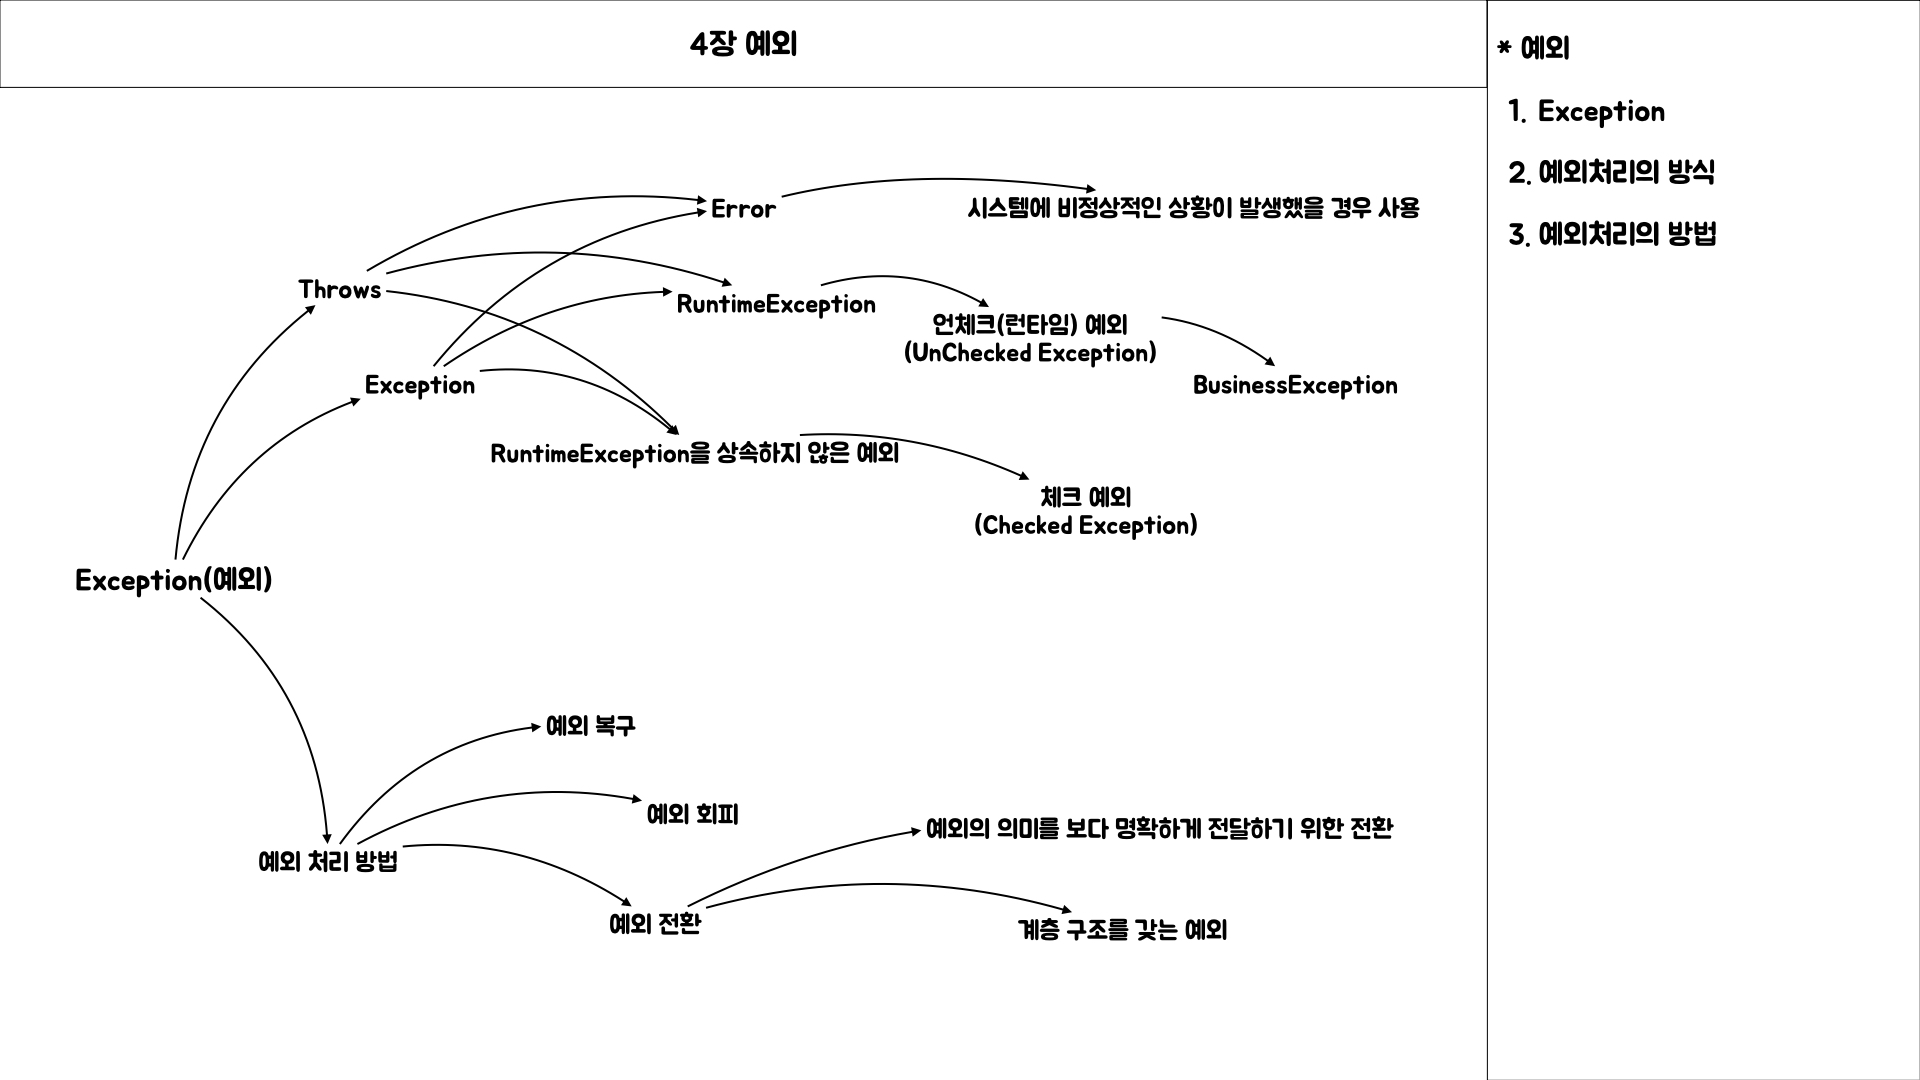
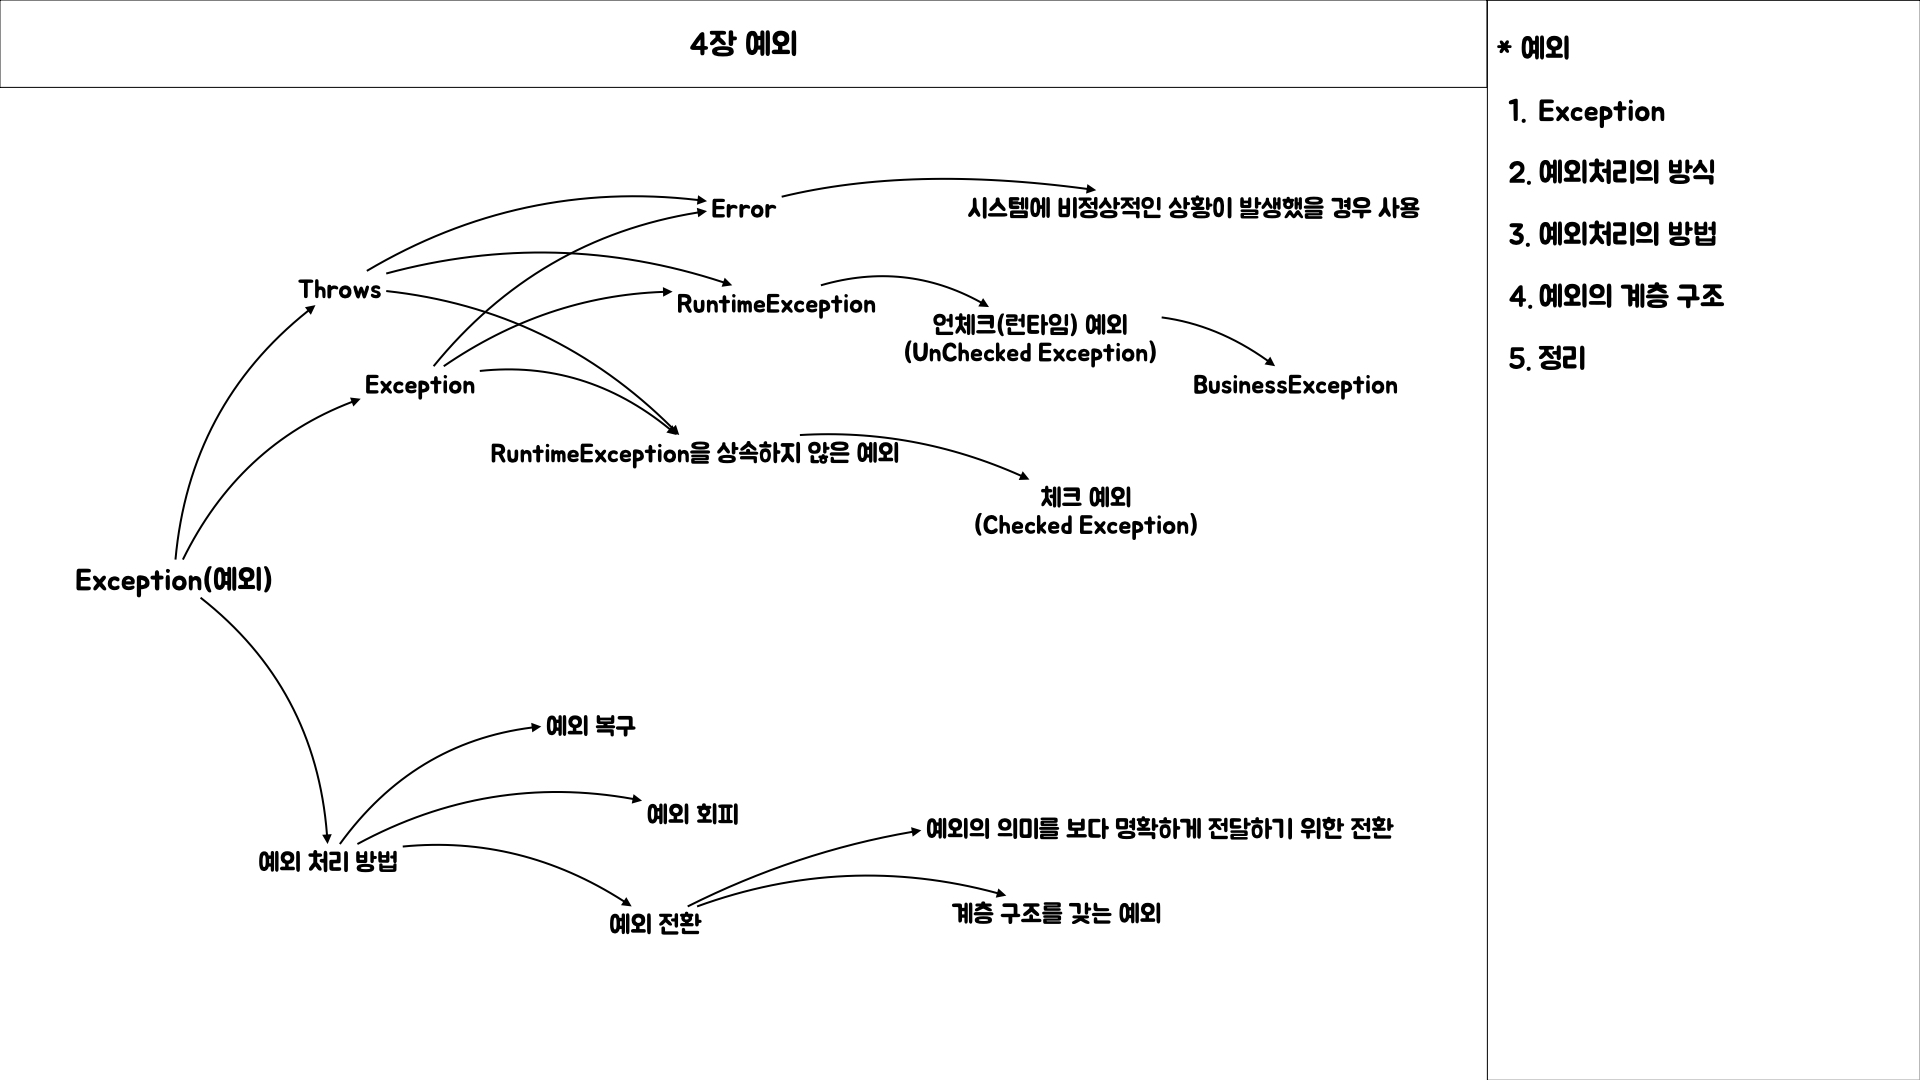
[Spring] [주제] 4. 예외 (예외 추상화와 정리 추가)

diff --git a/4장_예외/4장_예외_김석래.md b/4장_예외/4장_예외_김석래.md
@@ -13,3 +13,11 @@
 ### 예외를 처리하는 방법
 
 ![](images/004.jpeg)
+
+### 예외 추상화와 예외 계층 구조
+
+![](images/005.jpeg)
+
+### 정리
+
+![](images/006.jpeg)
